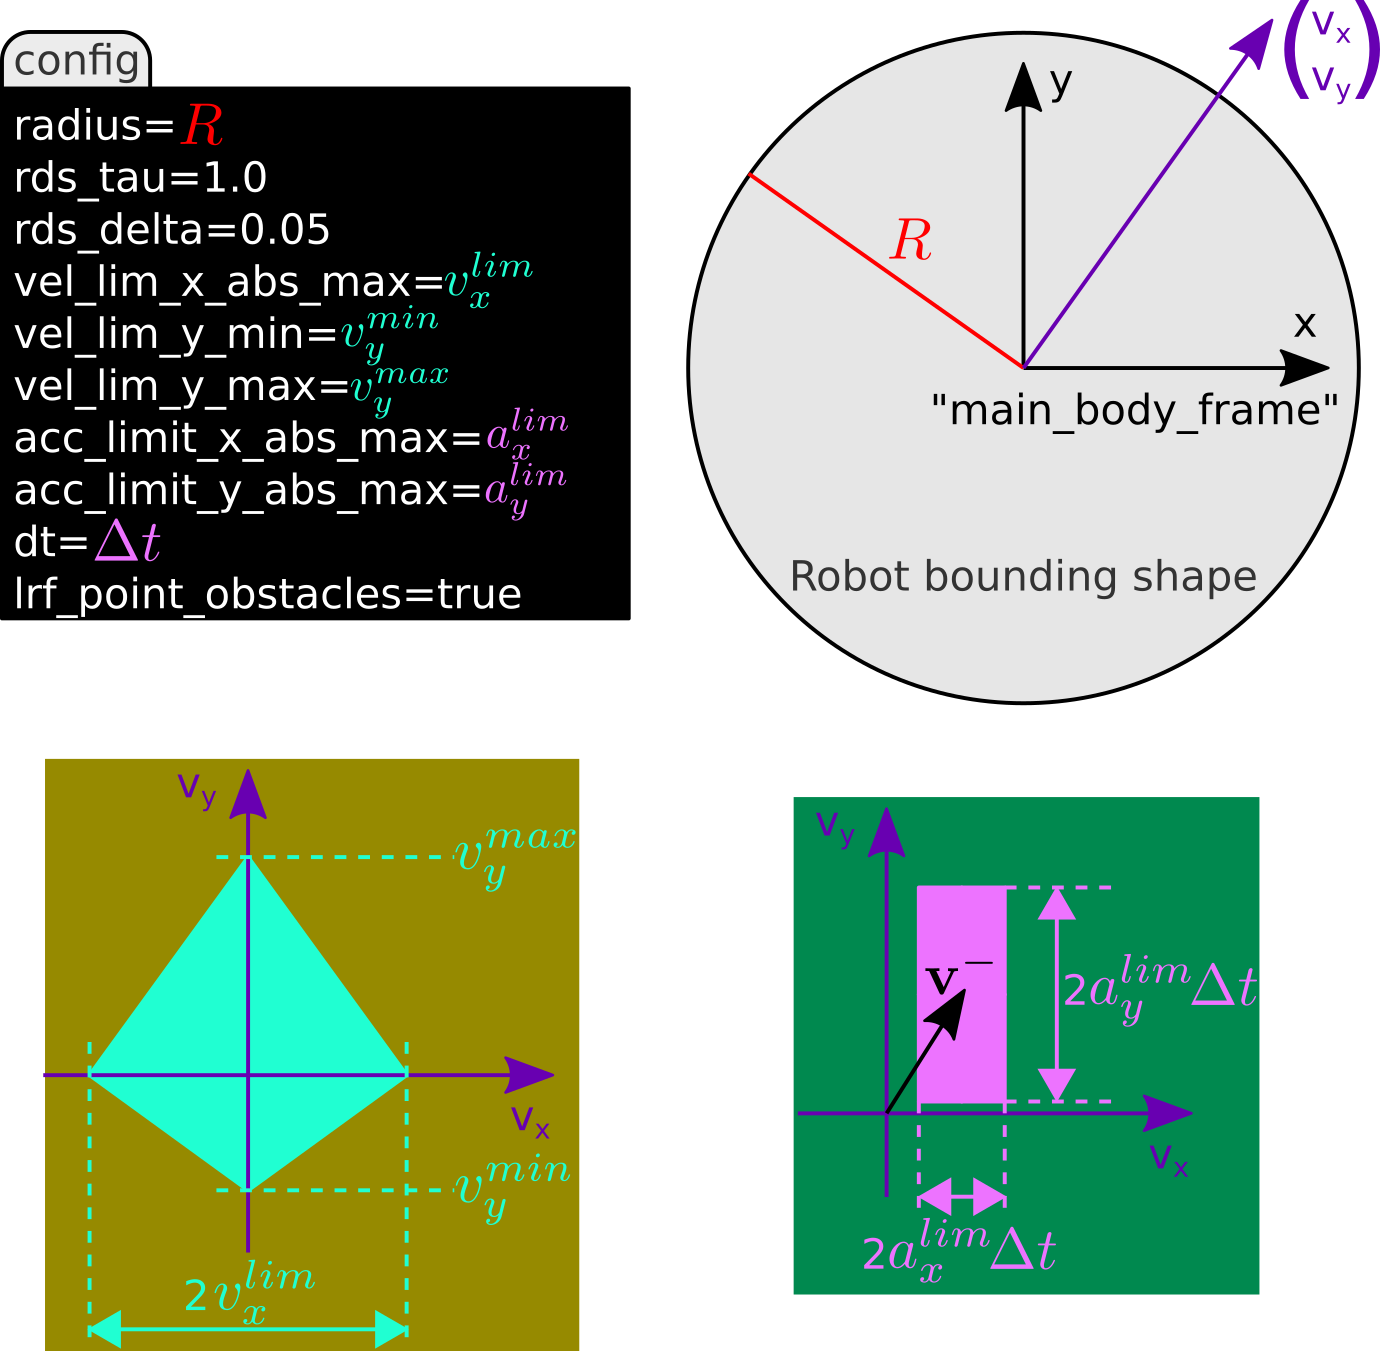
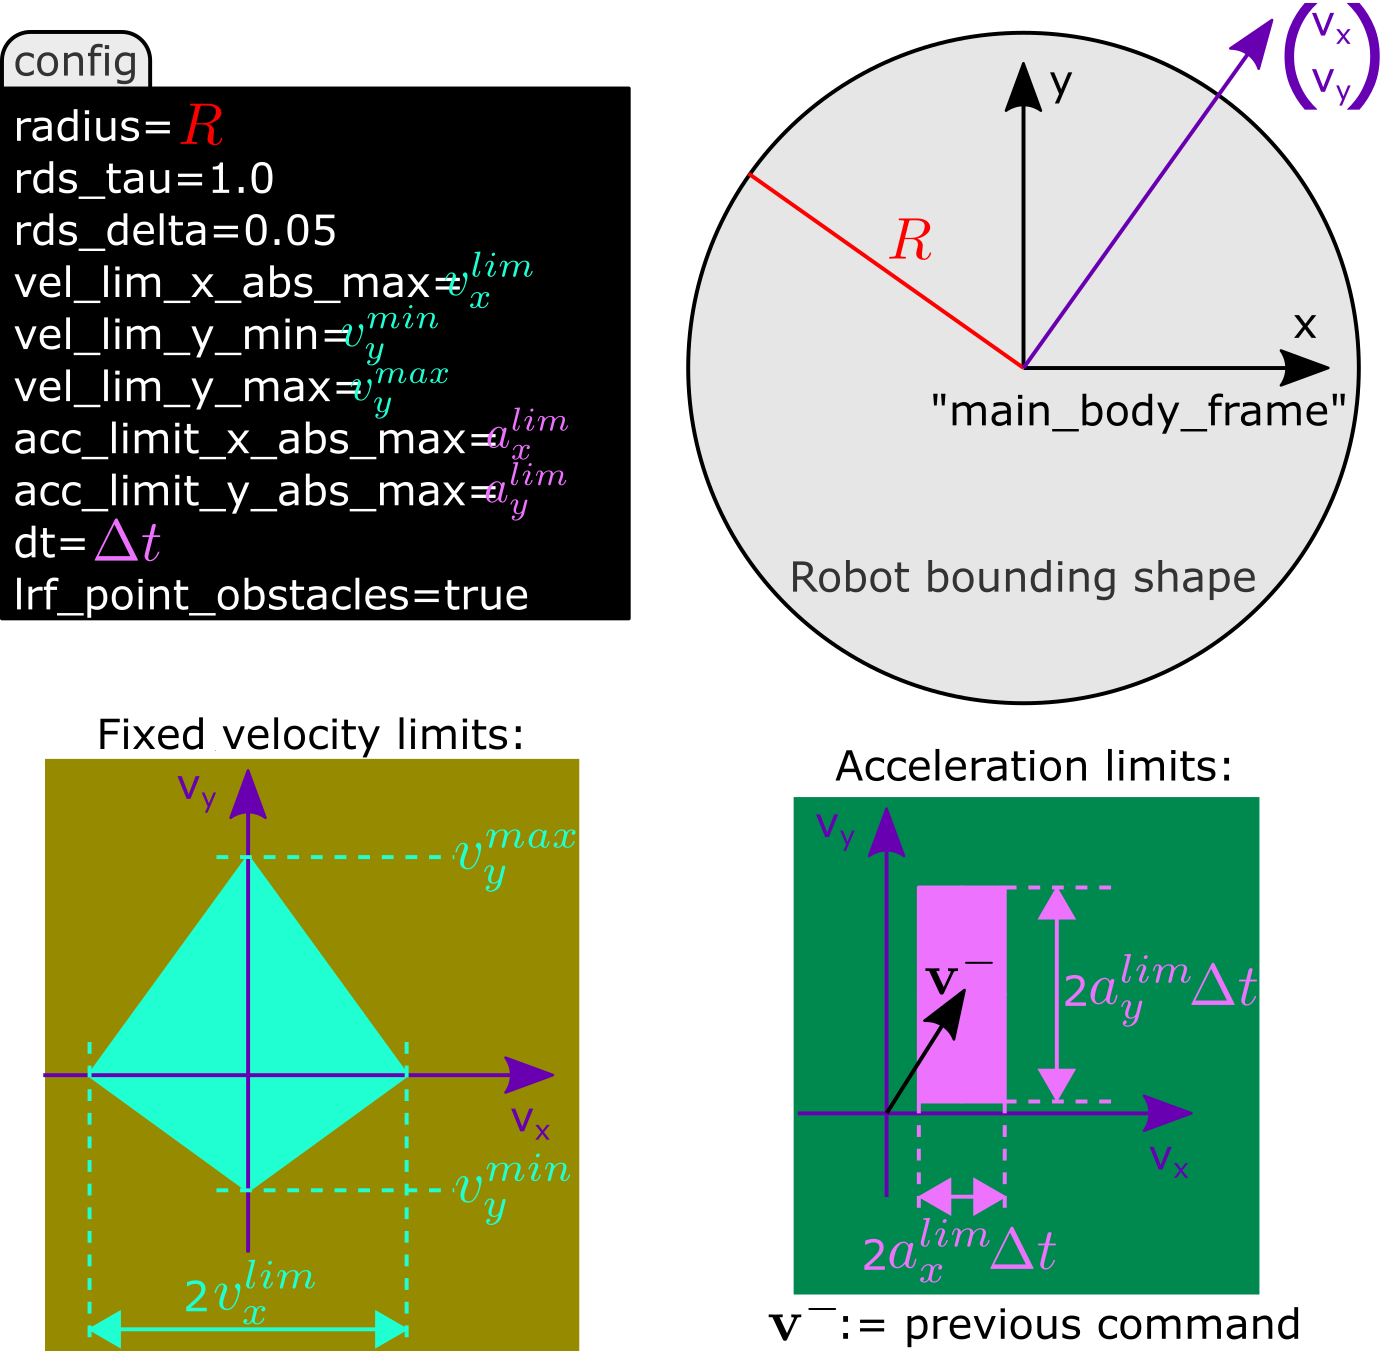
updated pic/readme

diff --git a/README.md b/README.md
@@ -18,23 +18,22 @@ RDS has been developed for non-holonomic robots whose shape is bounded by a caps
 
 RDS obtains information about obstacles by listening to up to two laserscanners under the topics "front_lidar/scan" and "rear_lidar/scan" and a people tracker under the topic "rwth_tracker/tracked_persons" (unless this build option is disabled). The messages by perception components must refer to a frame which RDS can relate to its own frame, which is termed "main_body_frame". For non-holonomic robots, this frame's origin is the midpoint of the wheel axle and its y-axis points forward and the x-axis is aligned with the wheel axle. For holonomic robots, this frame's origin is the robot's center (as in the picture below). If the messages from perception components refer to different frames, the transformation between their frames and the "main_body_frame" must be provided e.g. by a static transform publisher.
 
-The procedure for building all the shown components is given in [this](https://github.com/epfl-lasa/rds#getting-started-with-rds) and [this](https://github.com/epfl-lasa/rds#setup) section below. A demo and explanations are given in this [this section](https://github.com/epfl-lasa/rds#demo) for using RDS through ROS in its standard way with non-holonomic capsule-shaped robots
-[This section](https://github.com/epfl-lasa/rds#demo).
+The procedure for building all the shown components is given in [this](https://github.com/epfl-lasa/rds#getting-started-with-rds) and [this](https://github.com/epfl-lasa/rds#setup) section below. A demo and explanations are given in this [this section](https://github.com/epfl-lasa/rds#demo) for using RDS through ROS in its standard way with non-holonomic capsule-shaped robots.
 
 ## Holonomic wrapper
 
 The package rds_ros contains the wrapper wrapper_holonomic.hpp, which handles calling RDS for holonomic robots. The package user_pkg_example uses the holonomic wrapper of RDS and is included [here](https://github.com/epfl-lasa/rds/tree/crowdbot/user_pkg_example) in the repository. 
-It is a minimal example for a package that calls the rds_ros package and is intended to demonstrate how to call RDS for holonomic robots from within any external package in a similar way.
+It is a minimal example for a package that calls the rds_ros package for holonomic robots and is intended to demonstrate how to call RDS from within any external package in a similar way.
 The package user_pkg_example is built when following the general instructions for building this repository. It can be tested afterwards via
 ```
 roslaunch user_pkg_example demo_holonomic_standalone.launch
 ```
 In general, the following applies. A program can use the holonomic wrapper by including the respective header. Building requires adding the package rds_ros to its CMakeLists.txt. For launching such a program, its launch file must simply include the file rds_holonomic.launch from the package rds_ros, which will launch the nodes that execute RDS behind the wrapper.
 
-The holonomic wrapper is configured by a file which it loads upon creation and which specifies the radius of the bounding circle, the robot's limits of velocity and acceleration (with respect to the frame "main_body_frame"), and other parameters.
-The following picture explains the configuration of the holonomic wrapper and the associated definitions.
+The holonomic wrapper is configured by a file ([here](https://github.com/epfl-lasa/rds/tree/crowdbot/user_pkg_example/config/default_holonomic) in user_pkg_example) which it loads upon creation and which specifies the radius of the bounding circle, the robot's limits of velocity and acceleration (with respect to the frame "main_body_frame"), and other parameters.
+The following picture explains the configuration file of the holonomic wrapper and the associated definitions.
 
-![Alt text](/docs/holonomic_wrapper.png?raw=true "...haha...")
+![Alt text](/docs/holonomic_wrapper.png?raw=true "Wrapper configuration")
 
 RDS assumes that the frame "main_body_frame" defines the center for the bounding circle, which RDS uses to approximate the robot's shape. Further, the velocity commands which are sent to and received from RDS describe the origin center's velocity by the cartesian components with respect to the frame's axes.
 
